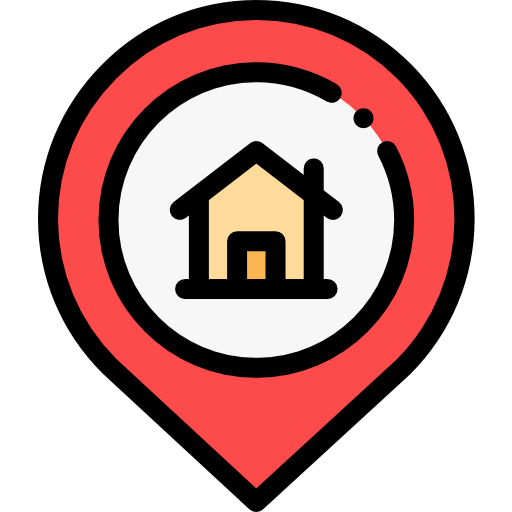
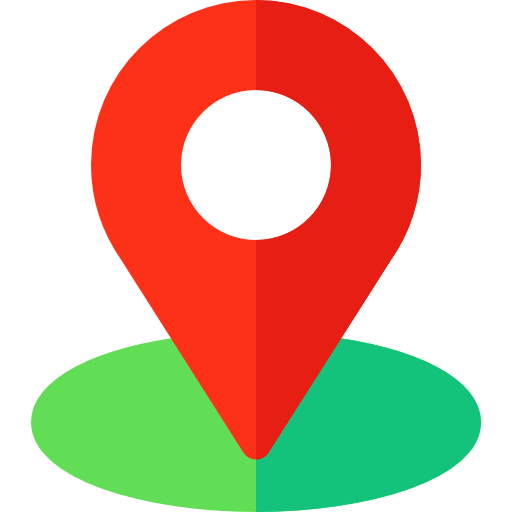
Mudança nos icones

diff --git a/src/Pages/RegisterPage/index.js b/src/Pages/RegisterPage/index.js
@@ -1,6 +1,5 @@
 //React
 import React, { useState } from "react";
-import Icon from "react-native-vector-icons/Entypo";
 
 import {
   ScrollView,
@@ -45,7 +44,10 @@ export default function RegisterPage() {
           value={""}
           marginBot={30}
         >
-          <Icon name="location-pin" size={50} color={"#FA0900"} />
+          <Image
+            source={require("../../../assets/city.png")}
+            style={styles.imagesInput}
+          />
         </TextInputExample>
 
         <TextInputExample
@@ -54,7 +56,10 @@ export default function RegisterPage() {
           value={""}
           marginBot={30}
         >
-          <Icon name="water" size={50} color={"#6C89FA"} />
+          <Image
+            source={require("../../../assets/river.png")}
+            style={styles.imagesInput}
+          />
         </TextInputExample>
 
         <TextInputExample
@@ -64,7 +69,10 @@ export default function RegisterPage() {
           value={""}
           marginBot={30}
         >
-          <Icon name="calendar" size={50} color={"#D4370B"} />
+          <Image
+            source={require("../../../assets/calendar.png")}
+            style={styles.imagesInput}
+          />
         </TextInputExample>
 
         {coletores.map((coletor, index) => (
@@ -75,7 +83,10 @@ export default function RegisterPage() {
             value={coletor}
             marginBot={30}
           >
-            <Icon name="user" size={50} color={"#000"} />
+            <Image
+              source={require("../../../assets/explorer.png")}
+              style={styles.imagesInput}
+            />
           </TextInputExample>
         ))}
 
@@ -83,7 +94,9 @@ export default function RegisterPage() {
           onPress={createNewColetor}
           style={styles.btnNewColector}
         >
-          <Icon name={"plus"} size={50} color="#000" />
+          <Image
+            source={require("../../../assets/more.png")}
+          />
         </TouchableOpacity>
       </ScrollView>
 
@@ -107,18 +120,23 @@ const styles = StyleSheet.create({
     backgroundColor: "#fff",
   },
   containerInputs: {
-    height: "100%",
     margin: 15,
     marginBottom: 5,
+  },
+  imagesInput: {
+    height: 50,
+    width: 50,
   },
 
   btnNewColector: {
     maxHeight: "100%",
 
+    padding:20,
+
     flexDirection: "row",
     alignContent: "center",
     alignItems: "center",
-    justifyContent: "space-around",
+    justifyContent: "center",
 
     borderWidth: 0.5,
     borderBottomWidth: 4,

diff --git a/src/Components/BarButtons/index.js b/src/Components/BarButtons/index.js
@@ -1,8 +1,7 @@
 import React from "react";
 import { useNavigation } from "@react-navigation/native";
-import { View, TouchableOpacity, StyleSheet } from "react-native";
-// import Icon from 'react-native-vector-icons/AntDesign';
-import Icon from 'react-native-vector-icons/Entypo';
+import { View, Image, TouchableOpacity, StyleSheet } from "react-native";
+
 
 
 export default function ButtonsSelect({ typeButton, page }) {
@@ -35,30 +34,31 @@ export default function ButtonsSelect({ typeButton, page }) {
   switch (typeButton) {
     case "btnBack":
       functionBtn = backPage;
-      imageBtn = "chevron-left";
+      imageBtn = require("../../../assets/Arrow.png");
       break;
     case "btnGo":
       functionBtn = goPage;
-      imageBtn = "chevron-right";
+      imageBtn = require("../../../assets/Arrow.png");
+      rotation = 180;
       break;
     case "btnHelp":
       functionBtn = goToHelpPage;
-      imageBtn = "help";
+      imageBtn = require("../../../assets/Help.png");
       break;
     case "btnHome":
       functionBtn = goToHomePage;
-      imageBtn = "home";
+      imageBtn = require("../../../assets/Home.png");
       break;
 
     default:
-      imageBtn = "minus";
+      imageBtn = "";
       break;
   }
 
   return (
     <View>
       <TouchableOpacity style={styles.button} onPress={functionBtn}>
-        <Icon name={imageBtn} size={20} color="#000" />
+        <Image source={imageBtn} style={[styles.buttonImage,{ transform: [{ rotate: `${rotation}deg`}]}]} />
       </TouchableOpacity>
     </View>
   );
